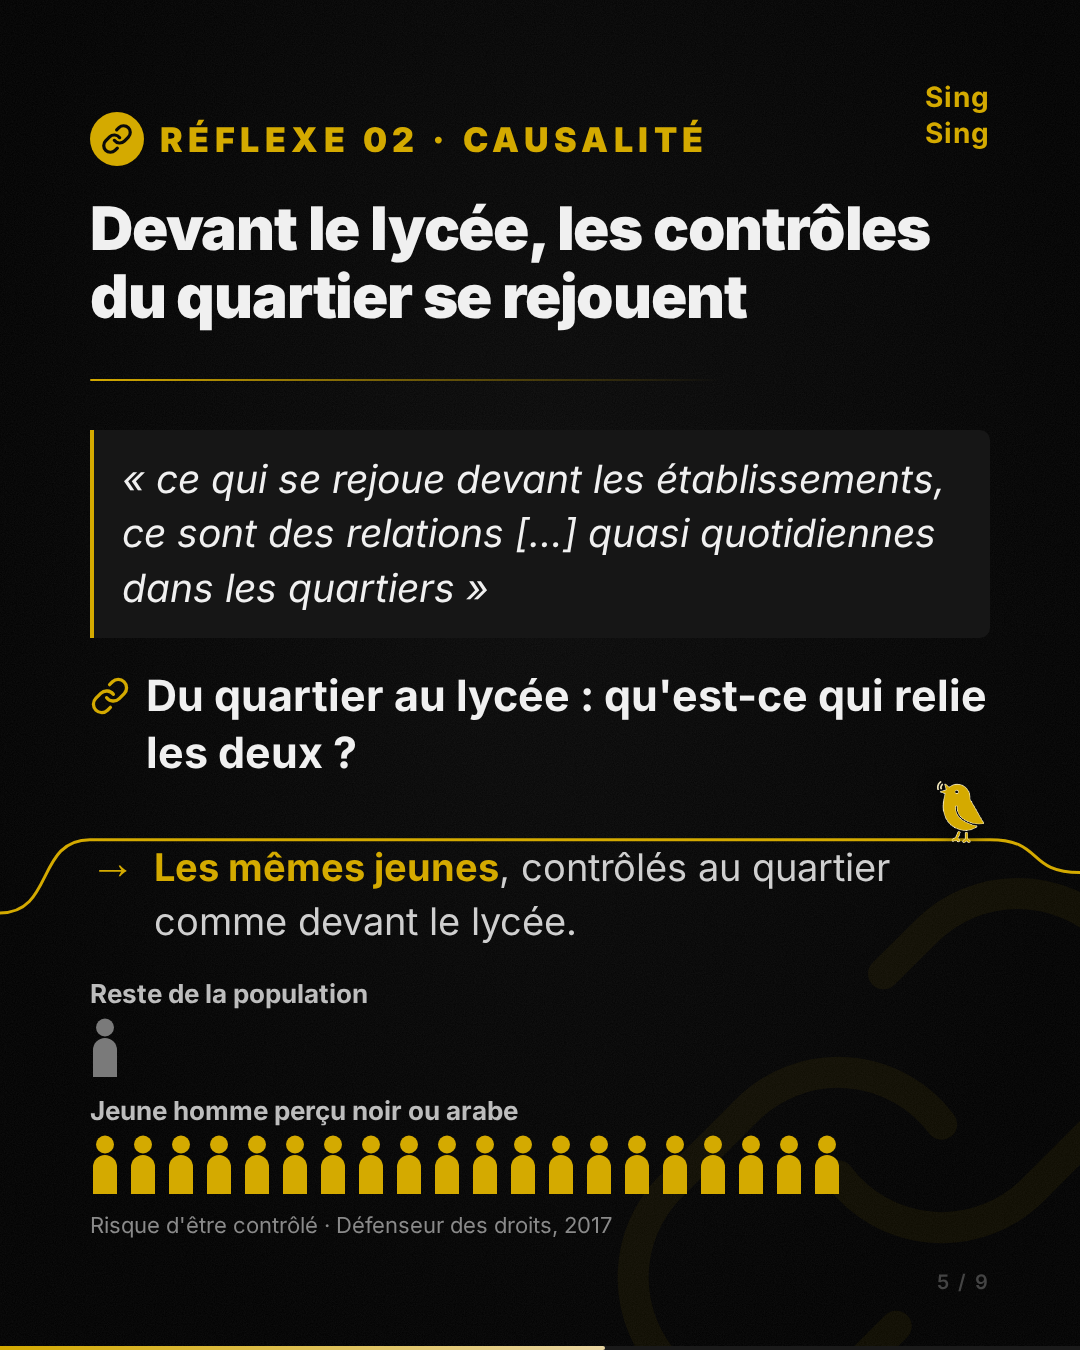
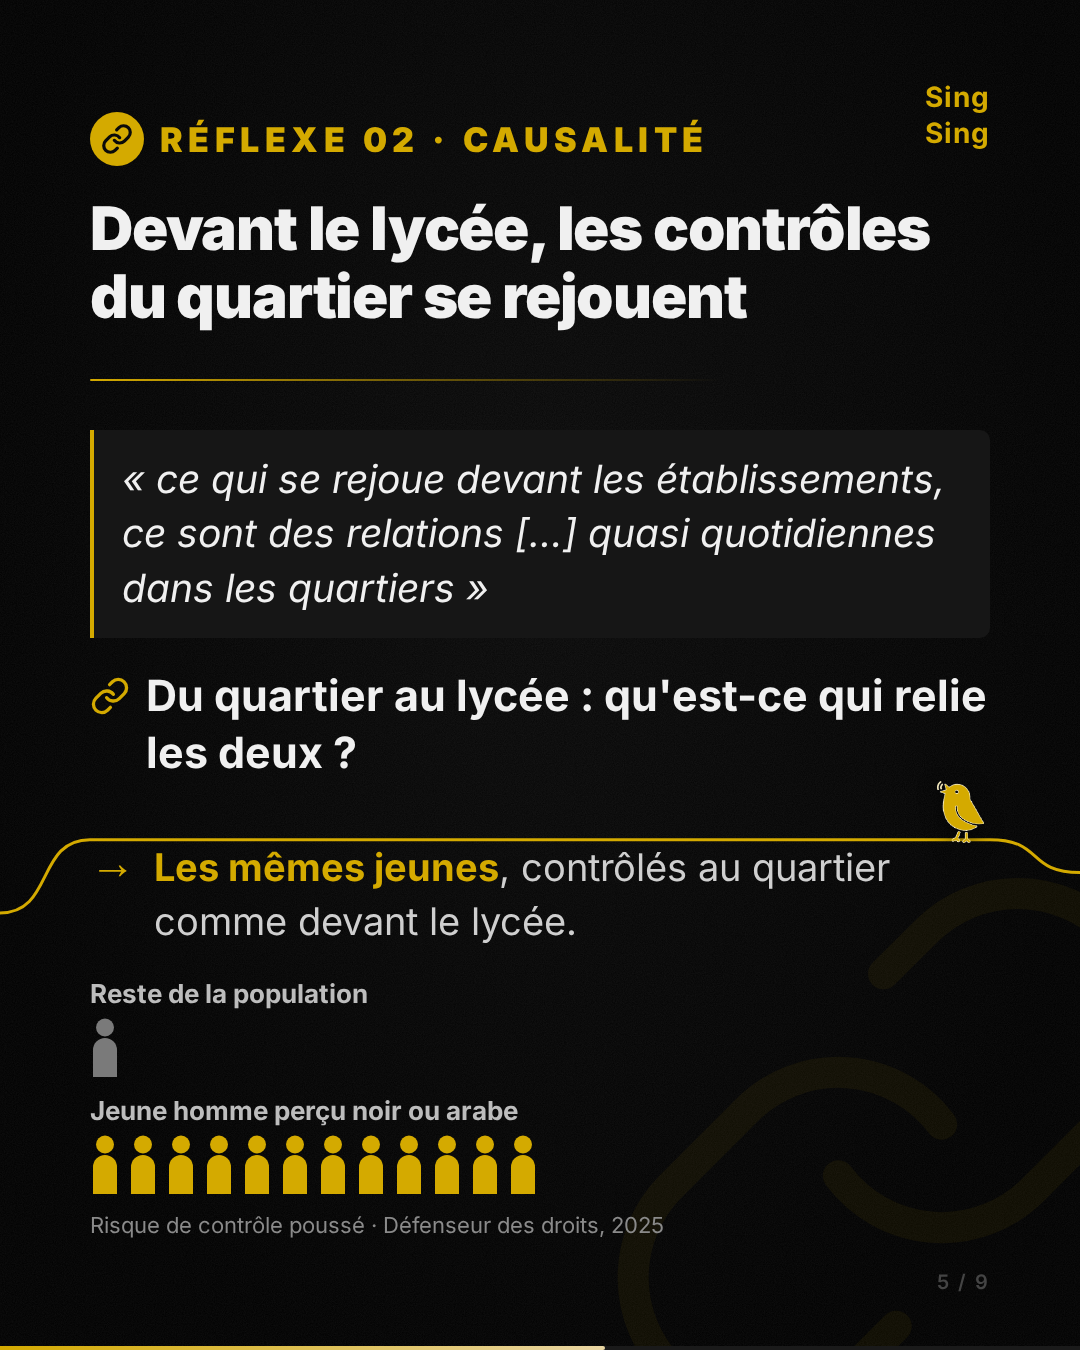
chore(samples): podcast_1 slide 5 pictogram on the Défenseur des droits 2025 figure
1 vs 12 — risk of an intrusive (« poussé ») identity check, 2024 report
published June 2025 — instead of the 2017 « 20 fois plus ». The two are
different measures; the deck now cites the most recent one. The matching
key takeaway (newsletter) follows.

Changed region(s): [[0.1528, 0.84, 0.7944, 0.9333]]

diff --git a/samples/podcasts/podcast_1/instagram_carousel_optimized/html/05_moment.html b/samples/podcasts/podcast_1/instagram_carousel_optimized/html/05_moment.html
@@ -466,8 +466,8 @@ body {
     
     <div class="picto">
       <div><div class="who">Reste de la population</div><div class="ppl muted"><svg viewBox="0 0 20 40"><circle cx="10" cy="7" r="6"></circle><path d="M2 40V22a8 8 0 0 1 16 0v18z"></path></svg></div></div>
-      <div><div class="who">Jeune homme perçu noir ou arabe</div><div class="ppl gold"><svg viewBox="0 0 20 40"><circle cx="10" cy="7" r="6"></circle><path d="M2 40V22a8 8 0 0 1 16 0v18z"></path></svg><svg viewBox="0 0 20 40"><circle cx="10" cy="7" r="6"></circle><path d="M2 40V22a8 8 0 0 1 16 0v18z"></path></svg><svg viewBox="0 0 20 40"><circle cx="10" cy="7" r="6"></circle><path d="M2 40V22a8 8 0 0 1 16 0v18z"></path></svg><svg viewBox="0 0 20 40"><circle cx="10" cy="7" r="6"></circle><path d="M2 40V22a8 8 0 0 1 16 0v18z"></path></svg><svg viewBox="0 0 20 40"><circle cx="10" cy="7" r="6"></circle><path d="M2 40V22a8 8 0 0 1 16 0v18z"></path></svg><svg viewBox="0 0 20 40"><circle cx="10" cy="7" r="6"></circle><path d="M2 40V22a8 8 0 0 1 16 0v18z"></path></svg><svg viewBox="0 0 20 40"><circle cx="10" cy="7" r="6"></circle><path d="M2 40V22a8 8 0 0 1 16 0v18z"></path></svg><svg viewBox="0 0 20 40"><circle cx="10" cy="7" r="6"></circle><path d="M2 40V22a8 8 0 0 1 16 0v18z"></path></svg><svg viewBox="0 0 20 40"><circle cx="10" cy="7" r="6"></circle><path d="M2 40V22a8 8 0 0 1 16 0v18z"></path></svg><svg viewBox="0 0 20 40"><circle cx="10" cy="7" r="6"></circle><path d="M2 40V22a8 8 0 0 1 16 0v18z"></path></svg><svg viewBox="0 0 20 40"><circle cx="10" cy="7" r="6"></circle><path d="M2 40V22a8 8 0 0 1 16 0v18z"></path></svg><svg viewBox="0 0 20 40"><circle cx="10" cy="7" r="6"></circle><path d="M2 40V22a8 8 0 0 1 16 0v18z"></path></svg><svg viewBox="0 0 20 40"><circle cx="10" cy="7" r="6"></circle><path d="M2 40V22a8 8 0 0 1 16 0v18z"></path></svg><svg viewBox="0 0 20 40"><circle cx="10" cy="7" r="6"></circle><path d="M2 40V22a8 8 0 0 1 16 0v18z"></path></svg><svg viewBox="0 0 20 40"><circle cx="10" cy="7" r="6"></circle><path d="M2 40V22a8 8 0 0 1 16 0v18z"></path></svg><svg viewBox="0 0 20 40"><circle cx="10" cy="7" r="6"></circle><path d="M2 40V22a8 8 0 0 1 16 0v18z"></path></svg><svg viewBox="0 0 20 40"><circle cx="10" cy="7" r="6"></circle><path d="M2 40V22a8 8 0 0 1 16 0v18z"></path></svg><svg viewBox="0 0 20 40"><circle cx="10" cy="7" r="6"></circle><path d="M2 40V22a8 8 0 0 1 16 0v18z"></path></svg><svg viewBox="0 0 20 40"><circle cx="10" cy="7" r="6"></circle><path d="M2 40V22a8 8 0 0 1 16 0v18z"></path></svg><svg viewBox="0 0 20 40"><circle cx="10" cy="7" r="6"></circle><path d="M2 40V22a8 8 0 0 1 16 0v18z"></path></svg></div></div>
-      <div class="src">Risque d'être contrôlé · Défenseur des droits, 2017</div>
+      <div><div class="who">Jeune homme perçu noir ou arabe</div><div class="ppl gold"><svg viewBox="0 0 20 40"><circle cx="10" cy="7" r="6"></circle><path d="M2 40V22a8 8 0 0 1 16 0v18z"></path></svg><svg viewBox="0 0 20 40"><circle cx="10" cy="7" r="6"></circle><path d="M2 40V22a8 8 0 0 1 16 0v18z"></path></svg><svg viewBox="0 0 20 40"><circle cx="10" cy="7" r="6"></circle><path d="M2 40V22a8 8 0 0 1 16 0v18z"></path></svg><svg viewBox="0 0 20 40"><circle cx="10" cy="7" r="6"></circle><path d="M2 40V22a8 8 0 0 1 16 0v18z"></path></svg><svg viewBox="0 0 20 40"><circle cx="10" cy="7" r="6"></circle><path d="M2 40V22a8 8 0 0 1 16 0v18z"></path></svg><svg viewBox="0 0 20 40"><circle cx="10" cy="7" r="6"></circle><path d="M2 40V22a8 8 0 0 1 16 0v18z"></path></svg><svg viewBox="0 0 20 40"><circle cx="10" cy="7" r="6"></circle><path d="M2 40V22a8 8 0 0 1 16 0v18z"></path></svg><svg viewBox="0 0 20 40"><circle cx="10" cy="7" r="6"></circle><path d="M2 40V22a8 8 0 0 1 16 0v18z"></path></svg><svg viewBox="0 0 20 40"><circle cx="10" cy="7" r="6"></circle><path d="M2 40V22a8 8 0 0 1 16 0v18z"></path></svg><svg viewBox="0 0 20 40"><circle cx="10" cy="7" r="6"></circle><path d="M2 40V22a8 8 0 0 1 16 0v18z"></path></svg><svg viewBox="0 0 20 40"><circle cx="10" cy="7" r="6"></circle><path d="M2 40V22a8 8 0 0 1 16 0v18z"></path></svg><svg viewBox="0 0 20 40"><circle cx="10" cy="7" r="6"></circle><path d="M2 40V22a8 8 0 0 1 16 0v18z"></path></svg></div></div>
+      <div class="src">Risque de contrôle poussé · Défenseur des droits, 2025</div>
     </div>
   </div>
   <div class="slide-num">5 / 9</div>
